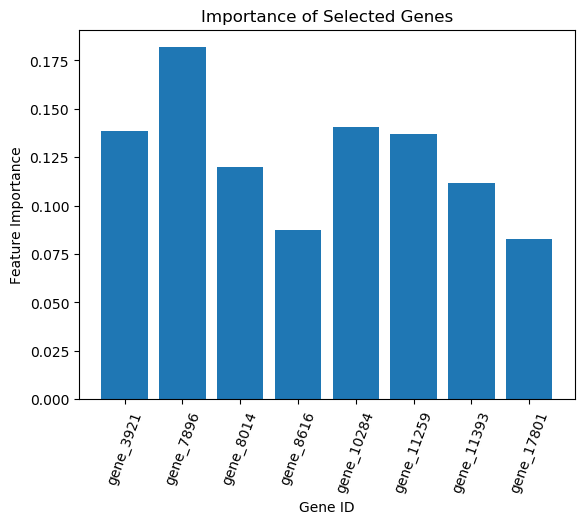
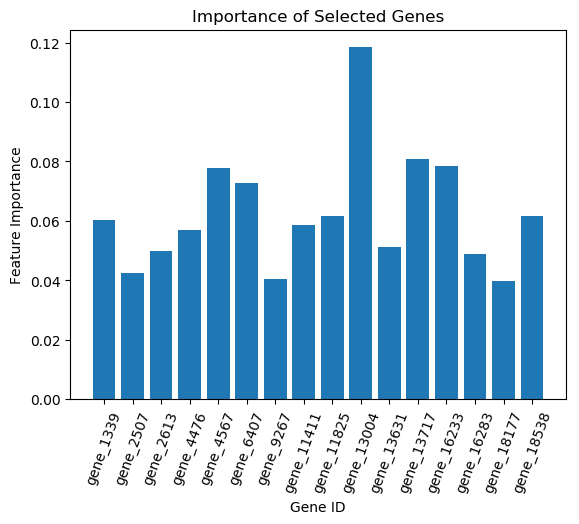
Final Changes

diff --git a/cancer_predictor/predictor/templates/predictor/documentation.html b/cancer_predictor/predictor/templates/predictor/documentation.html
@@ -53,13 +53,13 @@
 			        <p class="text-justify">
 						All training set features with no variance were removed<br>
 						All training set features having a pearson correlation coefficient of above 0.70 (positive and negative) i.e. having 70% 
-						corelation were filtered out. Using these two methods we reduced the featues from 20531 to 12528
+						corelation were filtered out. Using these two methods we reduced the featues from 20531 to 12427
 					</p>
 			<h3><li>Unsupervised Feature Selection</li></h3>
 					<p class="text-justify">
 						The training set features were further filtered using multiple iteration of Random Forest Classifier using mean as threshold
 						to select features at each iteration. The iteration were run until a mean cross validation accuracy was found to be lower 
-						than 0.98 or the number of features were below or equal to 15. 8 features were selected. <a href="#ref1">Fig. 1 </a> shows
+						than 0.98 or the number of features were below or equal to 15. 16 features were selected. <a href="#ref1">Fig. 1 </a> shows
 						the gene id which were selected and their importance to the model. 
 						<div class="img-display">
 							<a name="ref1">
@@ -85,27 +85,27 @@
 			A normalised confusion matrix shown in <a href="#ref2">Fig. 2</a> was also generated to support the overall assessment of the classifier.
 			<a name="table2">
 			<table class="table table-striped">
-				<tr><td>Accuracy</td><td>0.99</td><td></td><td></td><td></td></tr>
+				<tr><td>Accuracy</td><td>0.98</td><td></td><td></td><td></td></tr>
 				<tr>
 					<th></th><th>Precsion</th><th>Recall</th><th>f1-Score</th><th>Support</th>
 				</tr>
 				<tr>
-					<td>PRAD</td><td>1.00</td><td>1.00</td><td>1.00</td><td>54</td>
+					<td>PRAD</td><td>0.98</td><td>0.98</td><td>0.98</td><td>54</td>
 				</tr>
 				<tr>
-					<td>LUAD</td><td>0.95</td><td>1.00</td><td>0.97</td><td>57</td>
+					<td>LUAD</td><td>0.97</td><td>0.98</td><td>0.97</td><td>57</td>
 				</tr>
 				<tr>
-					<td>BRCA</td><td>1.00</td><td>0.98</td><td>0.99</td><td>120</td>
+					<td>BRCA</td><td>0.97</td><td>0.97</td><td>0.97</td><td>120</td>
 				</tr>
 				<tr>
-					<td>KIRC</td><td>1.00</td><td>0.98</td><td>0.99</td><td>59</td>
+					<td>KIRC</td><td>1.00</td><td>0.97</td><td>0.98</td><td>59</td>
 				</tr>
 				<tr>
 					<td>COAD</td><td>1.00</td><td>1.00</td><td>1.00</td><td>31</td>
 				</tr>
 				<tr>
-					<td>avg / total</td><td>0.99</td><td>0.99</td><td>0.99</td><td>321</td>
+					<td>avg / total</td><td>0.98</td><td>0.98</td><td>0.98</td><td>321</td>
 				</tr>
 			</table>
 			</a>

diff --git a/model_maker.py b/model_maker.py
@@ -12,7 +12,7 @@ from sklearn.ensemble import RandomForestClassifier
 
 import matplotlib.pyplot as plt
 import seaborn as sns
-
+import sys
 
 def corr_df(features, corr_val):
     '''
@@ -78,9 +78,13 @@ def plot_confusion_matrix(
 
 # File/data processing
 # load csv files into handlers
-
-data_folder = 'TCGA-PANCAN-HiSeq-801x20531'
-
+if len(sys.argv)<4:
+	print("Usage:")
+	print("python model_maker.py <correlation_cutoff_value> <input_folder> <base_server_path>")
+	exit()
+	
+data_folder = sys.argv[2]
+outfolder =sys.argv[3]
 # import labels
 
 file_handle = open(data_folder + '/labels.csv')
@@ -101,10 +105,10 @@ for line in file_handle:
     else:
         labels[line[0]] = cls_can[line[1]]
 file_handle.close()
-handle=open("class_id.csv", "w")
+file_handle = open(outfolder + '/cancer_predictor/support/class_id.csv', 'w')
 for key in cls_can:
-	handle.write(key+','+str(cls_can[key])+'\n')
-handle.close()
+	file_handle.write(key+','+str(cls_can[key])+'\n')
+file_handle.close()
 # import data
 
 file_handle = open(data_folder + '/data.csv')
@@ -165,14 +169,14 @@ print ('Filtering features based on correlation threshold')
 
 # filter features using correlation threshold
 
-handle = open(data_folder + '/index_70.csv')
-filter_index = handle.readline().strip().split(',')
-filter_index = [int(index) for index in filter_index]
+#handle = open(data_folder + '/index_70.csv')
+#filter_index = handle.readline().strip().split(',')
+#filter_index = [int(index) for index in filter_index]
 
 # print(filter_index)
-# filter_index=corr_df(selected_features, 0.70)
-# filter_index1=[str(index) for  index in filter_index]
-# handle.write(','.join(filter_index1))
+filter_index=corr_df(selected_features, float(sys.argv[1]))
+#filter_index1=[str(index) for  index in filter_index]
+#handle.write(','.join(filter_index1))
 # handle.close()
 # print(filter_index)
 
@@ -232,7 +236,7 @@ plt.xticks(rotation=70)
 plt.ylabel('Feature Importance')
 plt.xlabel('Gene ID')
 plt.title('Importance of Selected Genes')
-plt.savefig('feature_importance.png', bbox_inches='tight',
+plt.savefig(outfolder+'/predictor/static/images/feature_importance.png', bbox_inches='tight',
             transparent=True)
 plt.close(fig)
 
@@ -240,7 +244,7 @@ print ('Selected Genes:')
 selected_genes = list()
 for i in gene_id:
     selected_genes.append(gene_list[i])
-handle=open("selected_genes.csv", "w")
+handle=open(outfolder+'/cancer_predictor/support/selected_genes.csv', "w")
 handle.write(','.join(selected_genes))
 handle.close()
 print ('\t'.join(selected_genes))
@@ -297,11 +301,12 @@ plt.tight_layout()
 plot_confusion_matrix(cnf_matrix, classes=target_name, normalize=True,
                       title='Normalized confusion matrix')
 
-plt.savefig('normalised_confusion_matrix.png', bbox_inches='tight',
+plt.savefig(outfolder+'/predictor/static/images/normalised_confusion_matrix.png', bbox_inches='tight',
             transparent=True)
 
 from sklearn.externals import joblib
-joblib.dump(clf, 'cancer_classifier.pkl')
-joblib.dump(scaler, 'scaler.pkl')
+joblib.dump(clf, outfolder+'/cancer_predictor/support/cancer_classifier.pkl')
+joblib.dump(scaler, outfolder+'/cancer_predictor/support/scaler.pkl')
 
 			
+
